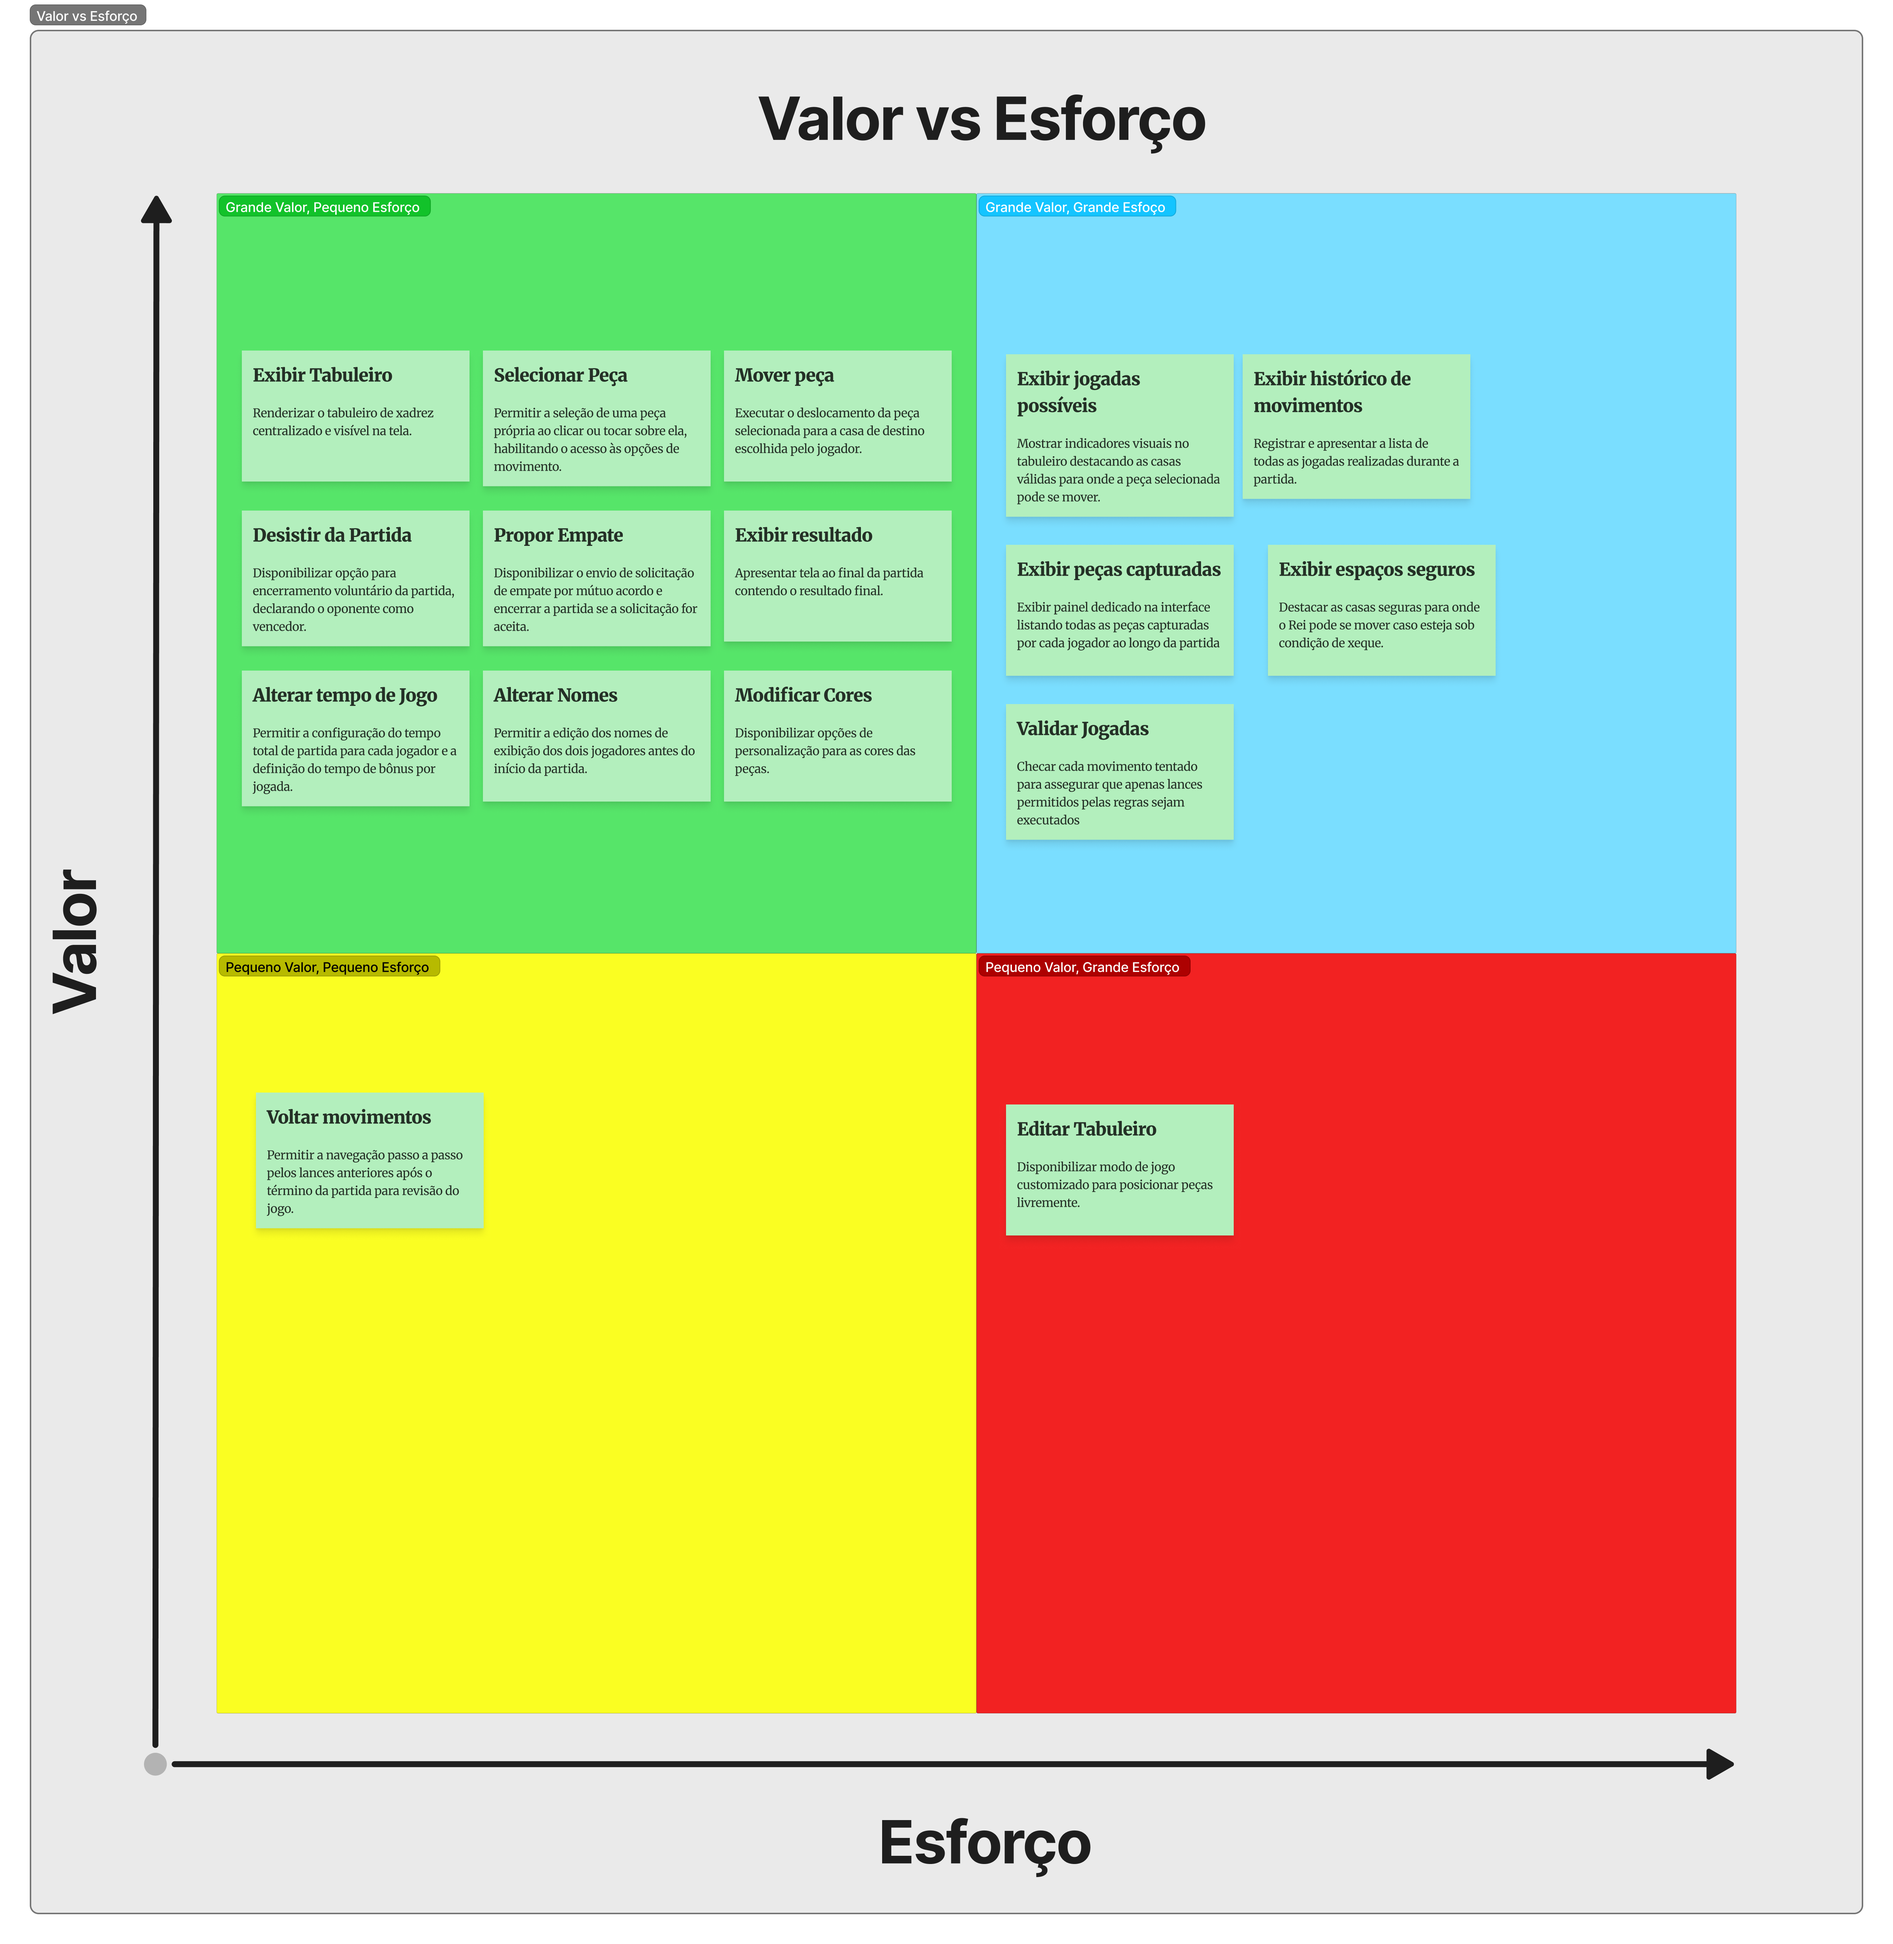
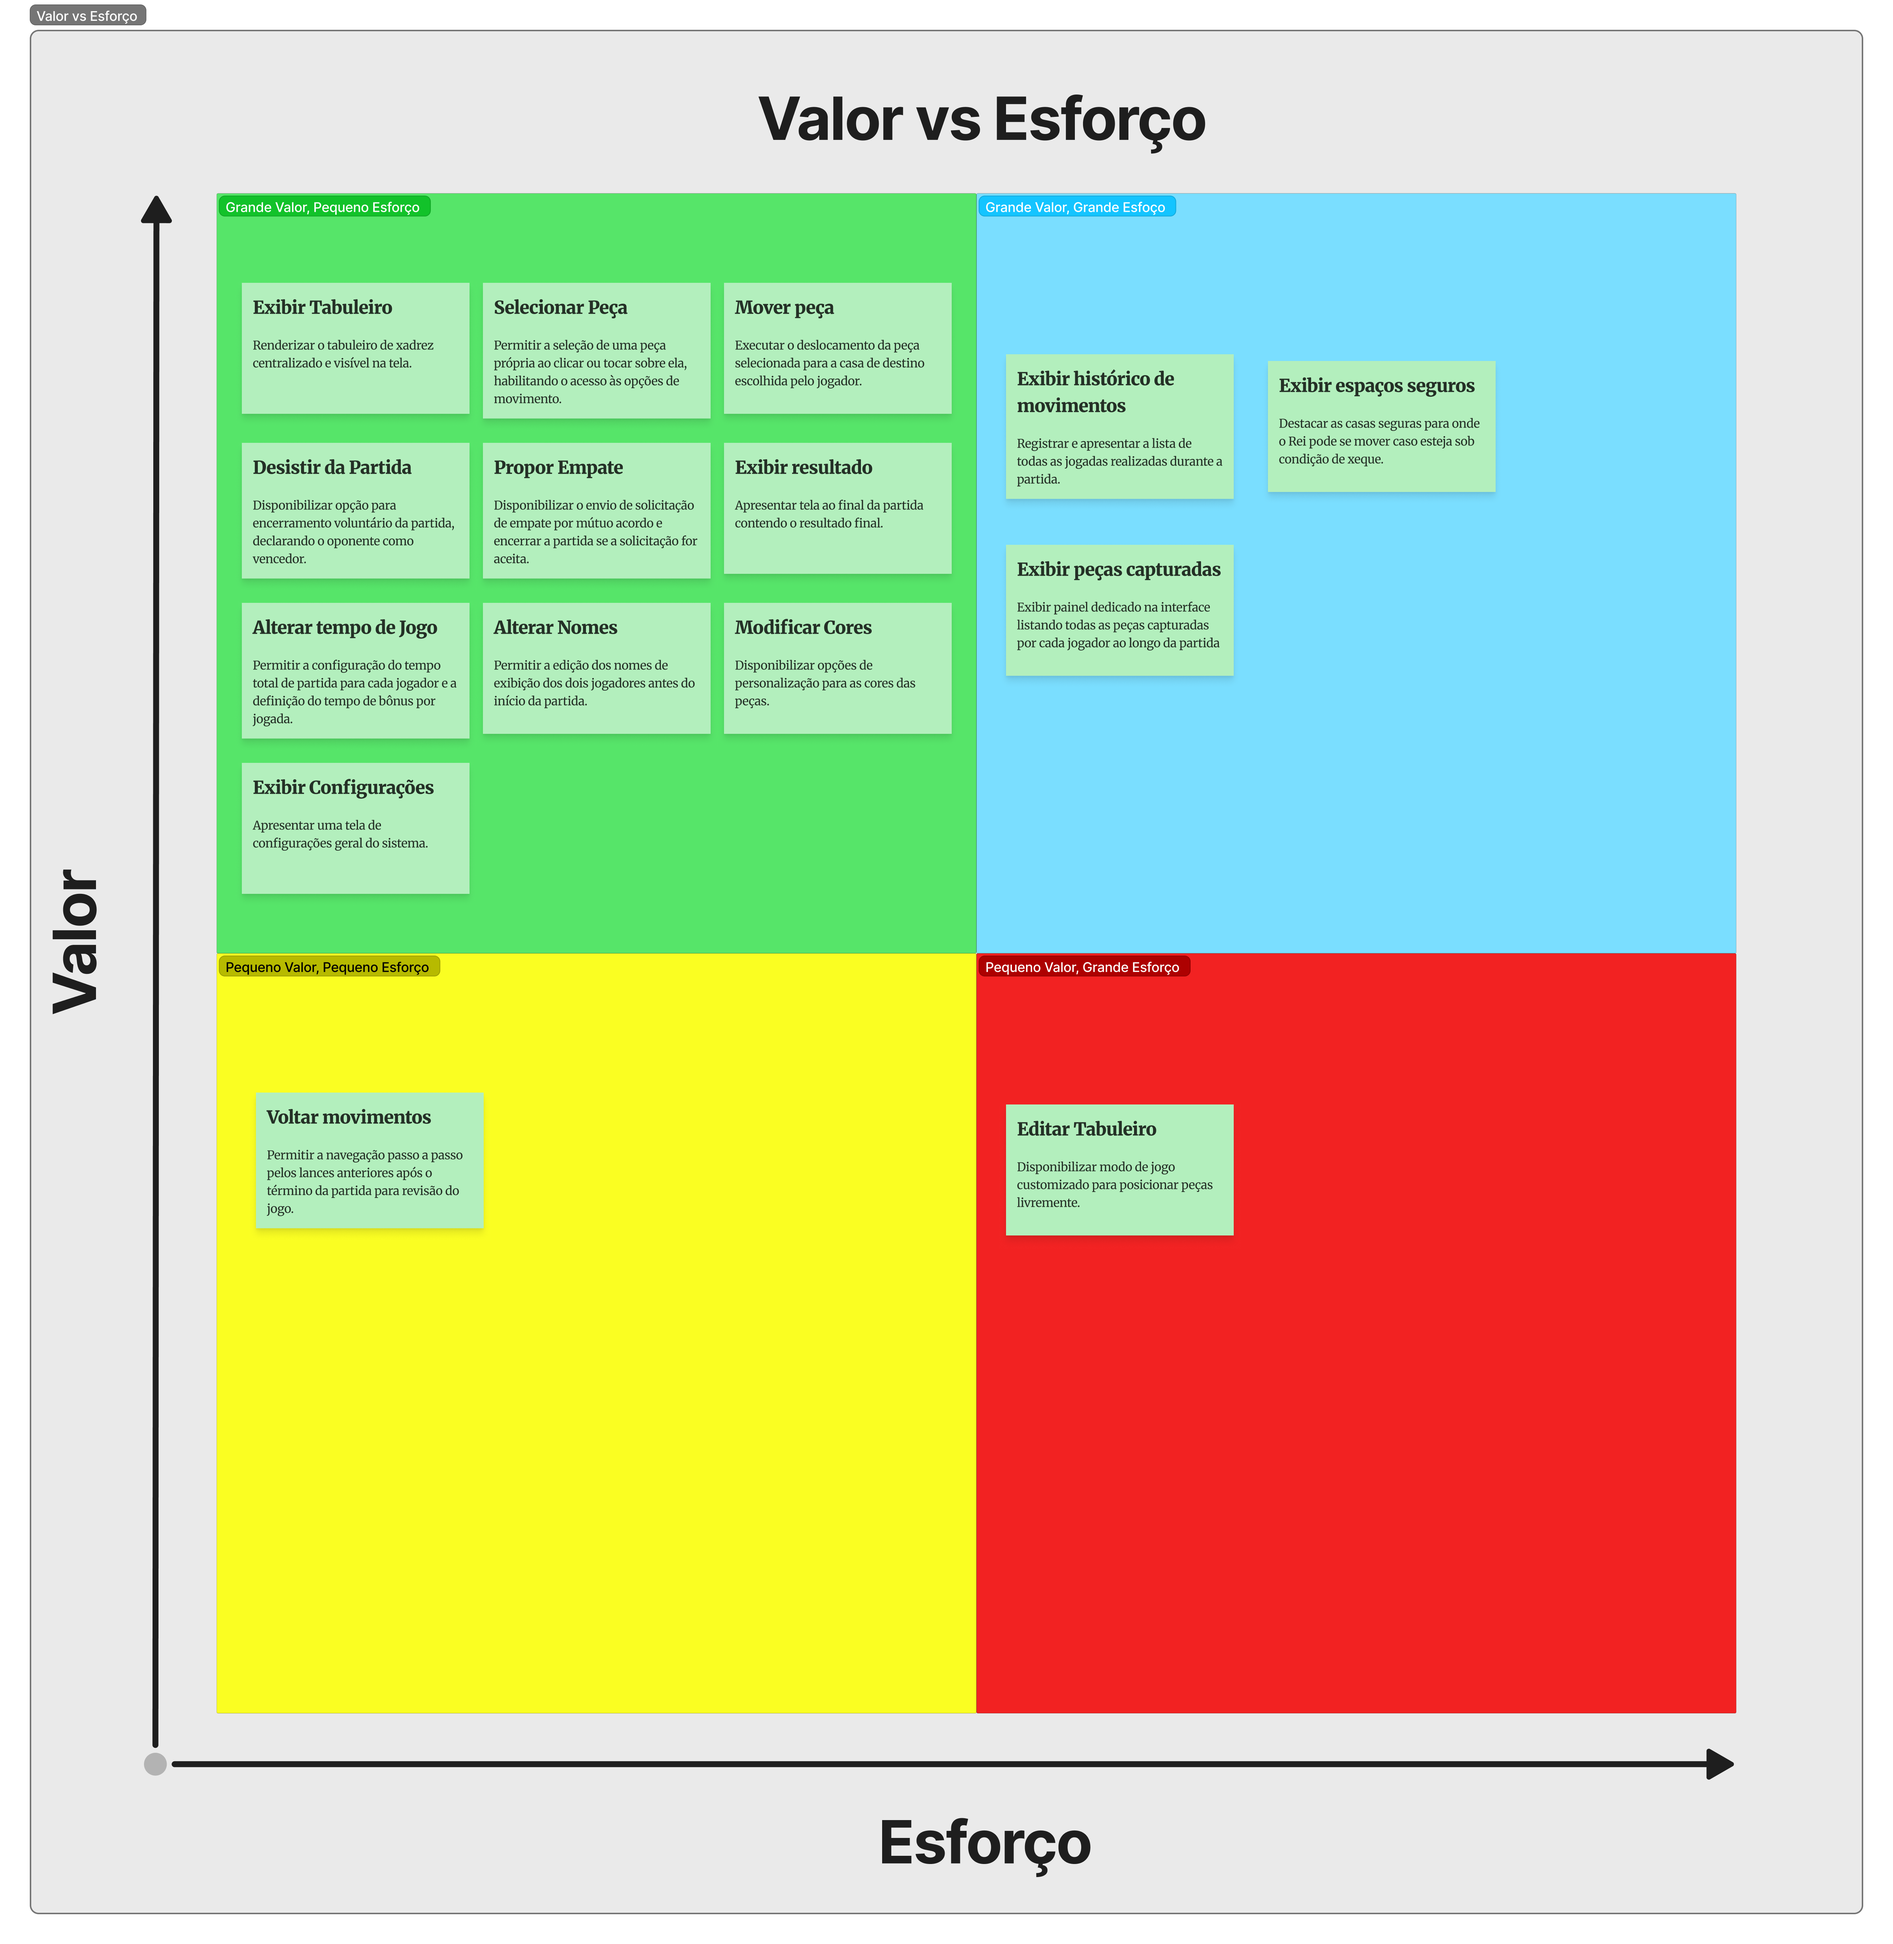
adicionando requisito 15

Changed region(s): [[0.125, 0.1248, 0.5, 0.468], [0.5312, 0.156, 0.8125, 0.3744], [0.5312, 0.3432, 0.6562, 0.4368]]

diff --git a/docs/backlog/backlog.md b/docs/backlog/backlog.md
@@ -14,6 +14,7 @@
 | **US10** | Exibição das peças capturadas | Como jogador, quero visualizar as peças que capturei do meu oponente, para ver meu progresso no jogo. | RF12 |
 | **US11** | Exibição dos espaços seguros | Como jogador, quero visualizar os espaços seguros que meu rei pode movimentar ao receber xeque, para decidir meu próximo movimento mais rapidamente. | RF13 |
 | **US12** | Validação de Jogadas | Como jogador, ser impedido de realizar movimentos ilegais, para garantir que a partida siga as regras do xadrez. | RF14 |
+| **US13** | Exibição das configurações | Como usuário, quero acessar uma aba de configurações, para que eu possa personalizar as opções do jogo de forma rápida e centralizada. | RF15 |
 
 ## Figma
 

diff --git a/docs/backlog/US/US13.md b/docs/backlog/US/US13.md
@@ -1,0 +1,23 @@
+# US13 - Exibição das configurações
+
+> Como usuário, quero acessar uma aba de configurações, para que eu possa personalizar as opções do jogo de forma rápida e centralizada.
+
+## Requisito Pai
+
+[RF15 - Exibir Configurações](../../requisitos/requisitos.md)
+
+> Apresentar uma tela de configurações geral do sistema.
+
+## Critérios de Aceitação Resumidos
+
+|  ID  | Critério de Aceite | 
+| ---- | ------------------ |
+| CA01 | Criterio de aceite AQUI |
+
+## Critérios Detalhados
+
+### CA01 - Selecionar Peça Própria 
+
+## Evidencias
+
+CA01 - Evidencia dele aqui com imagens ou alguma coisa assim quando estiver sendo feito

diff --git a/docs/requisitos/requisitos.md b/docs/requisitos/requisitos.md
@@ -18,6 +18,7 @@ A tabela a seguir apresenta os 16 Requisitos Funcionais do sistema, organizados 
 | **RF12** | Editar Tabuleiro | Disponibilizar modo de jogo customizado para posicionar peças livremente. |
 | **RF13** | Exibir Peças Capturadas | Exibir painel dedicado na interface listando todas as peças capturadas por cada jogador ao longo da partida. |
 | **RF14** | Exibir Espaços Seguros | Destacar as casas seguras para onde o Rei pode se mover caso esteja sob condição de xeque. |
+| **RF15** | Exibir Configurações | Apresentar uma tela de configurações geral do sistema. |
 
 ## Figma
 

diff --git a/docs/requisitos/mvp.md b/docs/requisitos/mvp.md
@@ -14,6 +14,7 @@
 | **RF11** | Exibir Resultado | Must Have | Apresentar tela ao final da partida contendo o resultado final. |
 | **RF13** | Exibir Peças Capturadas | Should Have | Exibir painel dedicado na interface listando todas as peças capturadas por cada jogador ao longo da partida. |
 | **RF14** | Exibir Espaços Seguros | Should Have | Destacar as casas seguras para onde o Rei pode se mover caso esteja sob condição de xeque. |
+| **RF15** | Exibir Configurações | Must Have | Apresentar uma tela de configurações geral do sistema. |
 
 # Figma
 

diff --git a/docs/requisitos/moscow.md b/docs/requisitos/moscow.md
@@ -13,6 +13,7 @@ A matriz MoSCoW abaixo prioriza as funcionalidades do sistema com base nos Requi
 | **RF09** | Desistir da Partida |
 | **RF10** | Propor Empate |
 | **RF11** | Exibir Resultado | 
+| **RF15** | Exibir Configurações | 
 
 ---
 

diff --git a/docs/requisitos/valorEsforco.md b/docs/requisitos/valorEsforco.md
@@ -17,6 +17,7 @@ A distribuição dos 16 Requisitos Funcionais do escopo verde está organizadas 
 | **RF09** | Desistir da Partida |
 | **RF10** | Propor Empate |
 | **RF11** | Exibir Resultado |
+| **RF15** | Exibir Configurações |
 
 ---
 
